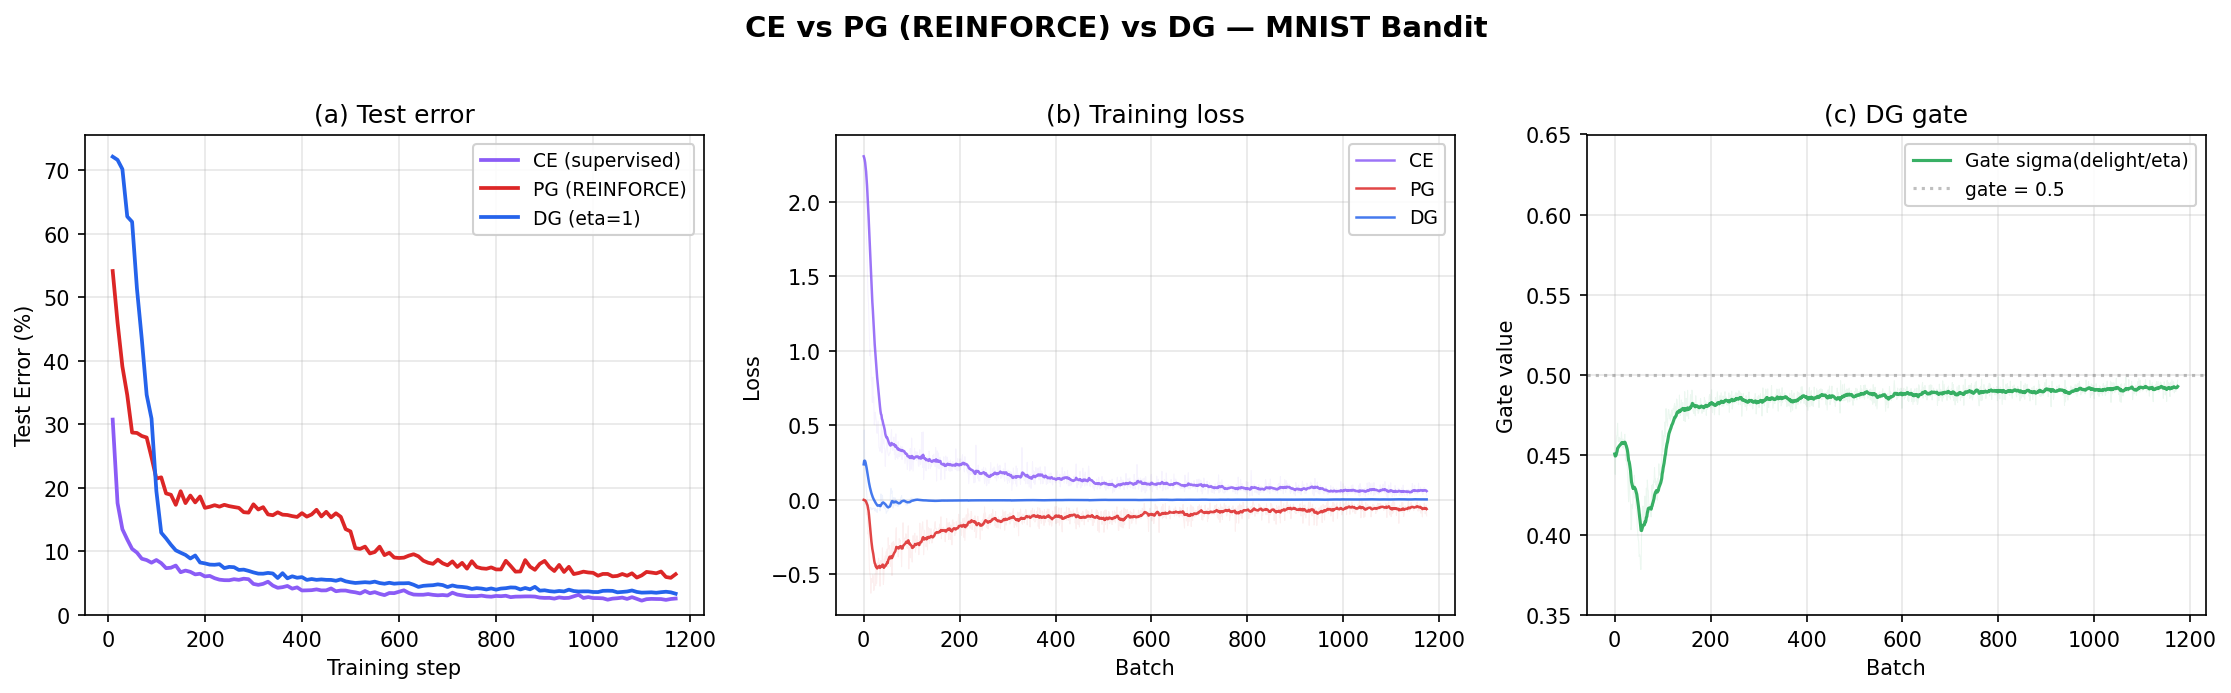
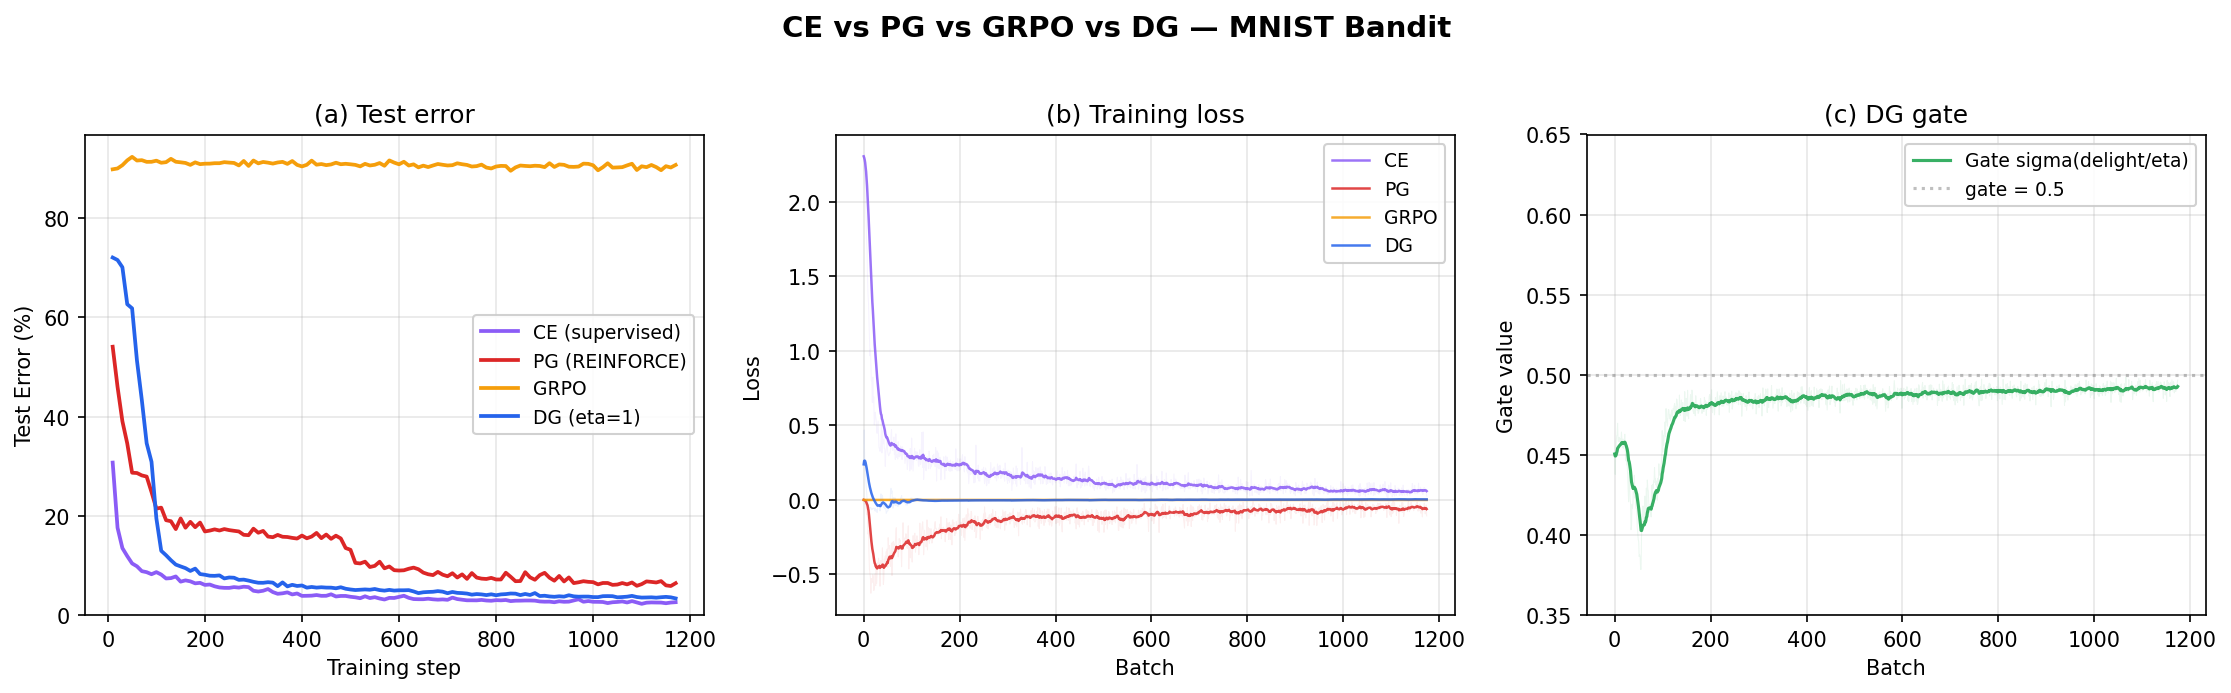
Add GRPO to MNIST loss comparison example
Adds train_grpo with proper group generation (G=8 actions per image)
and group-relative advantage normalization. Updates plot and docs
caption with 4-method comparison: CE (2.6%), DG (3.4%), PG (6.4%),
GRPO (~90% -- clipped IS limits per-batch updates on this bandit).

diff --git a/examples/losses/dg_mnist.py b/examples/losses/dg_mnist.py
@@ -1,15 +1,16 @@
-"""MNIST classification via policy gradient — sanity check for DGLoss.
+"""MNIST classification via policy gradient — comparison of loss functions.
 
 Frames MNIST classification as a bandit problem:
   - State: MNIST image (28x28)
   - Action: digit prediction (0-9)
   - Reward: +1 if correct, -1 if incorrect
 
-Trains CE, PG (REINFORCE), and DG — plots test error over training batches.
+Trains CE, PG (REINFORCE), GRPO, and DG — plots test error over training batches.
 
 References:
   - Delightful Policy Gradient (arXiv:2603.14608)
   - Delightful Distributed Policy Gradient (arXiv:2603.20521)
+  - DeepSeekMath / GRPO (arXiv:2402.03300)
 """
 
 import argparse
@@ -28,7 +29,7 @@ from tensordict.nn import (
 from torch.distributions import Categorical
 from torchvision import datasets, transforms
 
-from torchtrade.losses import DGLoss
+from torchtrade.losses import DGLoss, GRPOLoss
 
 
 def make_mlp(obs_dim=784, n_actions=10, hidden=128):
@@ -208,6 +209,99 @@ def train_pg(epochs=5, lr=1e-3, batch_size=256, eval_every=10, device=None):
     return metrics
 
 
+def train_grpo(epochs=5, lr=1e-3, batch_size=256, eval_every=10,
+               group_size=8, device=None):
+    """GRPO with group-relative advantages. Returns metrics dict.
+
+    For each image, samples `group_size` actions from the policy, computes
+    rewards for each, then normalizes advantages within each group. This is
+    the key GRPO mechanism: the batch has shape (group_size, B) and
+    mean(0) computes per-image baselines across the group.
+    """
+    if device is None:
+        device = torch.device("cuda" if torch.cuda.is_available() else "cpu")
+
+    actor = make_actor().to(device)
+    loss_module = GRPOLoss(
+        actor_network=actor,
+        entropy_bonus=True,
+        entropy_coeff=0.01,
+        epsilon_low=0.2,
+        epsilon_high=0.2,
+    )
+    optimizer = torch.optim.Adam(
+        loss_module.actor_network_params.values(True, True), lr=lr
+    )
+    train_loader = make_data_loader(train=True, batch_size=batch_size)
+    test_loader = make_data_loader(train=False, batch_size=1000)
+
+    metrics = {"batch_loss": [], "batch_test_error": [], "eval_steps": []}
+    step = 0
+
+    print(f"Training GRPO (G={group_size}) on {device}")
+    for epoch in range(1, epochs + 1):
+        t0 = time.time()
+        loss_module.train()
+        for images, labels in train_loader:
+            images = images.view(images.size(0), -1).to(device)  # (B, 784)
+            labels = labels.to(device)  # (B,)
+            B = images.size(0)
+
+            # Expand each image G times: (G, B, 784)
+            images_g = images.unsqueeze(0).expand(group_size, -1, -1)
+            labels_g = labels.unsqueeze(0).expand(group_size, -1)
+
+            # Sample G actions per image
+            td = TensorDict(
+                {"observation": images_g},
+                batch_size=[group_size, B],
+                device=device,
+            )
+            with torch.no_grad():
+                with loss_module.actor_network_params.to_module(loss_module.actor_network):
+                    td = loss_module.actor_network(td)
+
+            actions = td["action"]  # (G, B)
+            old_log_prob = td["action_log_prob"]  # (G, B)
+            reward = torch.where(
+                actions == labels_g,
+                torch.ones(1, device=device),
+                -torch.ones(1, device=device),
+            ).unsqueeze(-1).float()  # (G, B, 1)
+
+            # GRPO loss normalizes advantage via mean(0) across the group dim
+            loss_td = TensorDict(
+                {
+                    "observation": images_g,
+                    "action": actions,
+                    "action_log_prob": old_log_prob,
+                    "next": {"reward": reward},
+                },
+                batch_size=[group_size, B],
+                device=device,
+            )
+
+            optimizer.zero_grad()
+            output = loss_module(loss_td)
+            total_loss = output["loss_objective"] + output["loss_entropy"]
+            total_loss.backward()
+            optimizer.step()
+
+            metrics["batch_loss"].append(output["loss_objective"].item())
+            step += 1
+
+            if step % eval_every == 0:
+                err = compute_test_error_dg(loss_module, test_loader, device)
+                metrics["batch_test_error"].append(err)
+                metrics["eval_steps"].append(step)
+
+        err = compute_test_error_dg(loss_module, test_loader, device)
+        dt = time.time() - t0
+        print(f"  Epoch {epoch}: test error {err:.2f}%, {dt:.1f}s")
+
+    return metrics
+
+
 def train_dg(epochs=5, eta=1.0, baseline="mean", lr=1e-3, batch_size=256,
              eval_every=10, device=None):
     """Delightful Gradient. Returns metrics dict."""
@@ -302,17 +396,18 @@ def smooth(values, alpha=0.9):
     return out
 
 
-def plot_results(ce, pg, dg, save_path="dg_vs_reinforce.png"):
-    """Plot test error and loss for CE, PG, DG."""
+def plot_results(ce, pg, grpo, dg, save_path="dg_vs_reinforce.png"):
+    """Plot test error and loss for CE, PG, GRPO, DG."""
     fig, axes = plt.subplots(1, 3, figsize=(15, 4.5))
     fig.suptitle(
-        "CE vs PG (REINFORCE) vs DG — MNIST Bandit",
+        "CE vs PG vs GRPO vs DG — MNIST Bandit",
         fontsize=14, fontweight="bold", y=1.02,
     )
 
-    ce_color = "#8b5cf6"   # purple
-    pg_color = "#dc2626"   # red
-    dg_color = "#2563eb"   # blue
+    ce_color = "#8b5cf6"    # purple
+    pg_color = "#dc2626"    # red
+    grpo_color = "#f59e0b"  # amber
+    dg_color = "#2563eb"    # blue
 
     # --- (a) Test Error over training ---
     ax = axes[0]
@@ -320,6 +415,8 @@ def plot_results(ce, pg, dg, save_path="dg_vs_reinforce.png"):
             color=ce_color, linewidth=1.8, label="CE (supervised)")
     ax.plot(pg["eval_steps"], pg["batch_test_error"],
             color=pg_color, linewidth=1.8, label="PG (REINFORCE)")
+    ax.plot(grpo["eval_steps"], grpo["batch_test_error"],
+            color=grpo_color, linewidth=1.8, label="GRPO")
     ax.plot(dg["eval_steps"], dg["batch_test_error"],
             color=dg_color, linewidth=1.8, label="DG (eta=1)")
     ax.set_xlabel("Training step")
@@ -333,9 +430,11 @@ def plot_results(ce, pg, dg, save_path="dg_vs_reinforce.png"):
     ax = axes[1]
     ax.plot(smooth(ce["batch_loss"]), color=ce_color, alpha=0.85, linewidth=1.2, label="CE")
     ax.plot(smooth(pg["batch_loss"]), color=pg_color, alpha=0.85, linewidth=1.2, label="PG")
+    ax.plot(smooth(grpo["batch_loss"]), color=grpo_color, alpha=0.85, linewidth=1.2, label="GRPO")
     ax.plot(smooth(dg["batch_loss"]), color=dg_color, alpha=0.85, linewidth=1.2, label="DG")
     ax.plot(ce["batch_loss"], color=ce_color, alpha=0.07, linewidth=0.5)
     ax.plot(pg["batch_loss"], color=pg_color, alpha=0.07, linewidth=0.5)
+    ax.plot(grpo["batch_loss"], color=grpo_color, alpha=0.07, linewidth=0.5)
     ax.plot(dg["batch_loss"], color=dg_color, alpha=0.07, linewidth=0.5)
     ax.set_xlabel("Batch")
     ax.set_ylabel("Loss")
@@ -390,6 +489,12 @@ def main():
     )
 
     torch.manual_seed(42)
+    grpo_metrics = train_grpo(
+        epochs=args.epochs, lr=args.lr, batch_size=args.batch_size,
+        eval_every=args.eval_every, device=device,
+    )
+
+    torch.manual_seed(42)
     dg_metrics = train_dg(
         epochs=args.epochs, eta=args.eta, baseline=args.baseline,
         lr=args.lr, batch_size=args.batch_size,
@@ -398,13 +503,14 @@ def main():
 
     print(f"\n{'=' * 50}")
     print(f"Final test errors:")
-    print(f"  CE:  {ce_metrics['batch_test_error'][-1]:.2f}%")
-    print(f"  PG:  {pg_metrics['batch_test_error'][-1]:.2f}%")
-    print(f"  DG:  {dg_metrics['batch_test_error'][-1]:.2f}%")
+    print(f"  CE:   {ce_metrics['batch_test_error'][-1]:.2f}%")
+    print(f"  PG:   {pg_metrics['batch_test_error'][-1]:.2f}%")
+    print(f"  GRPO: {grpo_metrics['batch_test_error'][-1]:.2f}%")
+    print(f"  DG:   {dg_metrics['batch_test_error'][-1]:.2f}%")
 
     if not args.no_plot:
         plot_results(
-            ce_metrics, pg_metrics, dg_metrics,
+            ce_metrics, pg_metrics, grpo_metrics, dg_metrics,
             save_path="examples/losses/dg_vs_reinforce.png",
         )
 

diff --git a/docs/examples/index.md b/docs/examples/index.md
@@ -331,9 +331,9 @@ Located in `examples/losses/`:
 |---------|------|-------------|
 | **dg_mnist.py** | [DGLoss](../components/losses.md#dgloss) | Compares CE, REINFORCE, and DG on MNIST-as-bandit. Plots test error, training loss, and gate dynamics. |
 
-![CE vs PG (REINFORCE) vs DG on MNIST Bandit](../images/dg_vs_reinforce.png)
+![CE vs PG vs GRPO vs DG on MNIST Bandit](../images/dg_vs_reinforce.png)
 
-DG (blue) converges to 2.7% test error after 5 epochs, close to supervised CE (purple, 2.0%) and well ahead of vanilla REINFORCE (red, 5.7%). Panel (c) shows the delight gate settling near 0.5 as the policy improves and surprisal decreases.
+DG (blue, 3.4%) converges close to supervised CE (purple, 2.6%) and well ahead of REINFORCE (red, 6.4%). GRPO (amber, ~90%) struggles on this bandit task because its clipped importance ratios limit per-batch updates without multi-epoch replay. Panel (c) shows the DG gate settling near 0.5 as the policy improves and surprisal decreases.
 
 ```bash
 # Run with defaults (5 epochs, eta=1.0, mean baseline)
